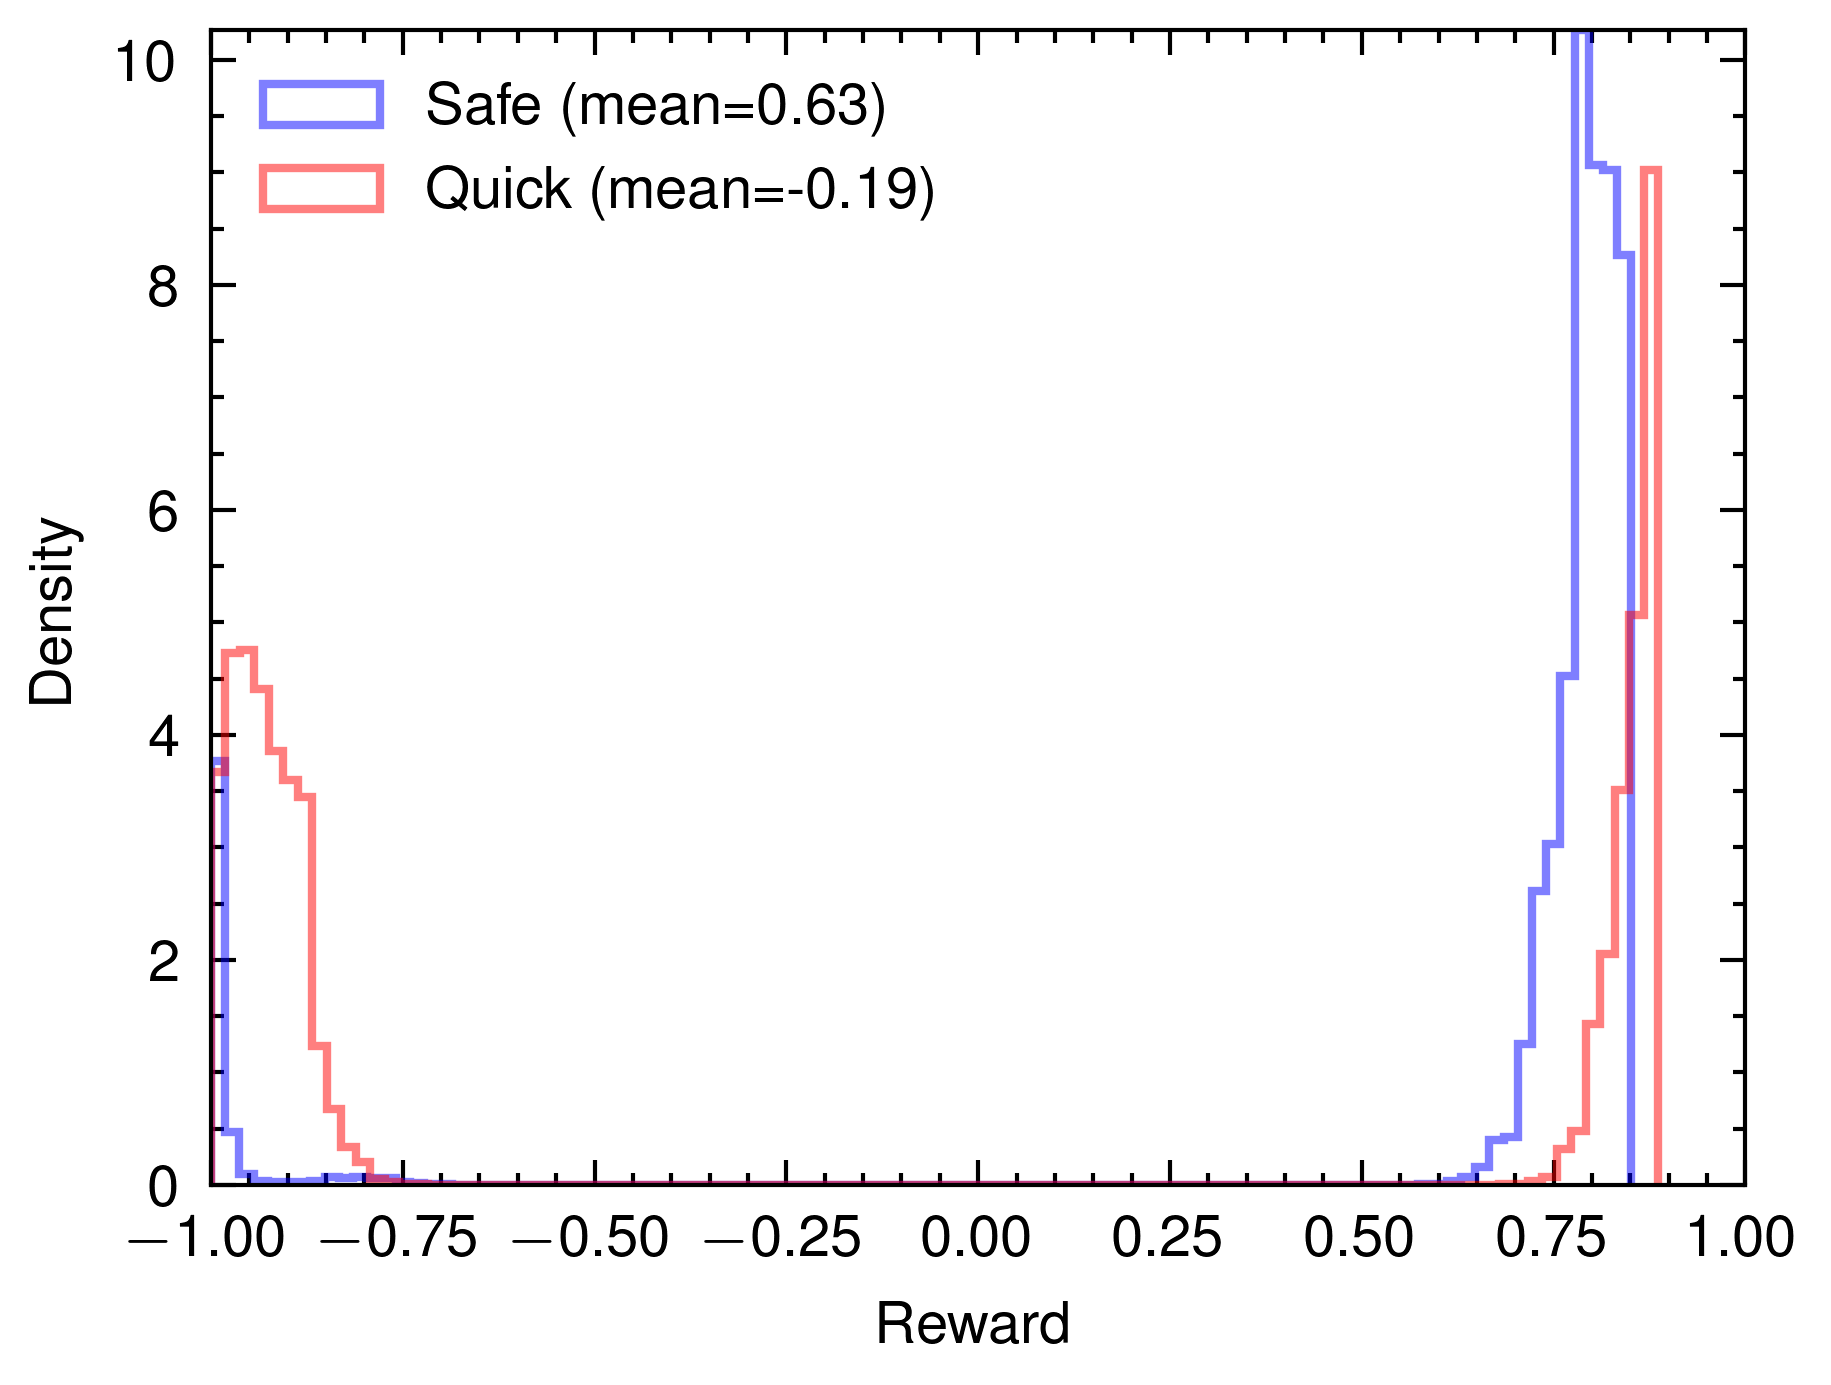
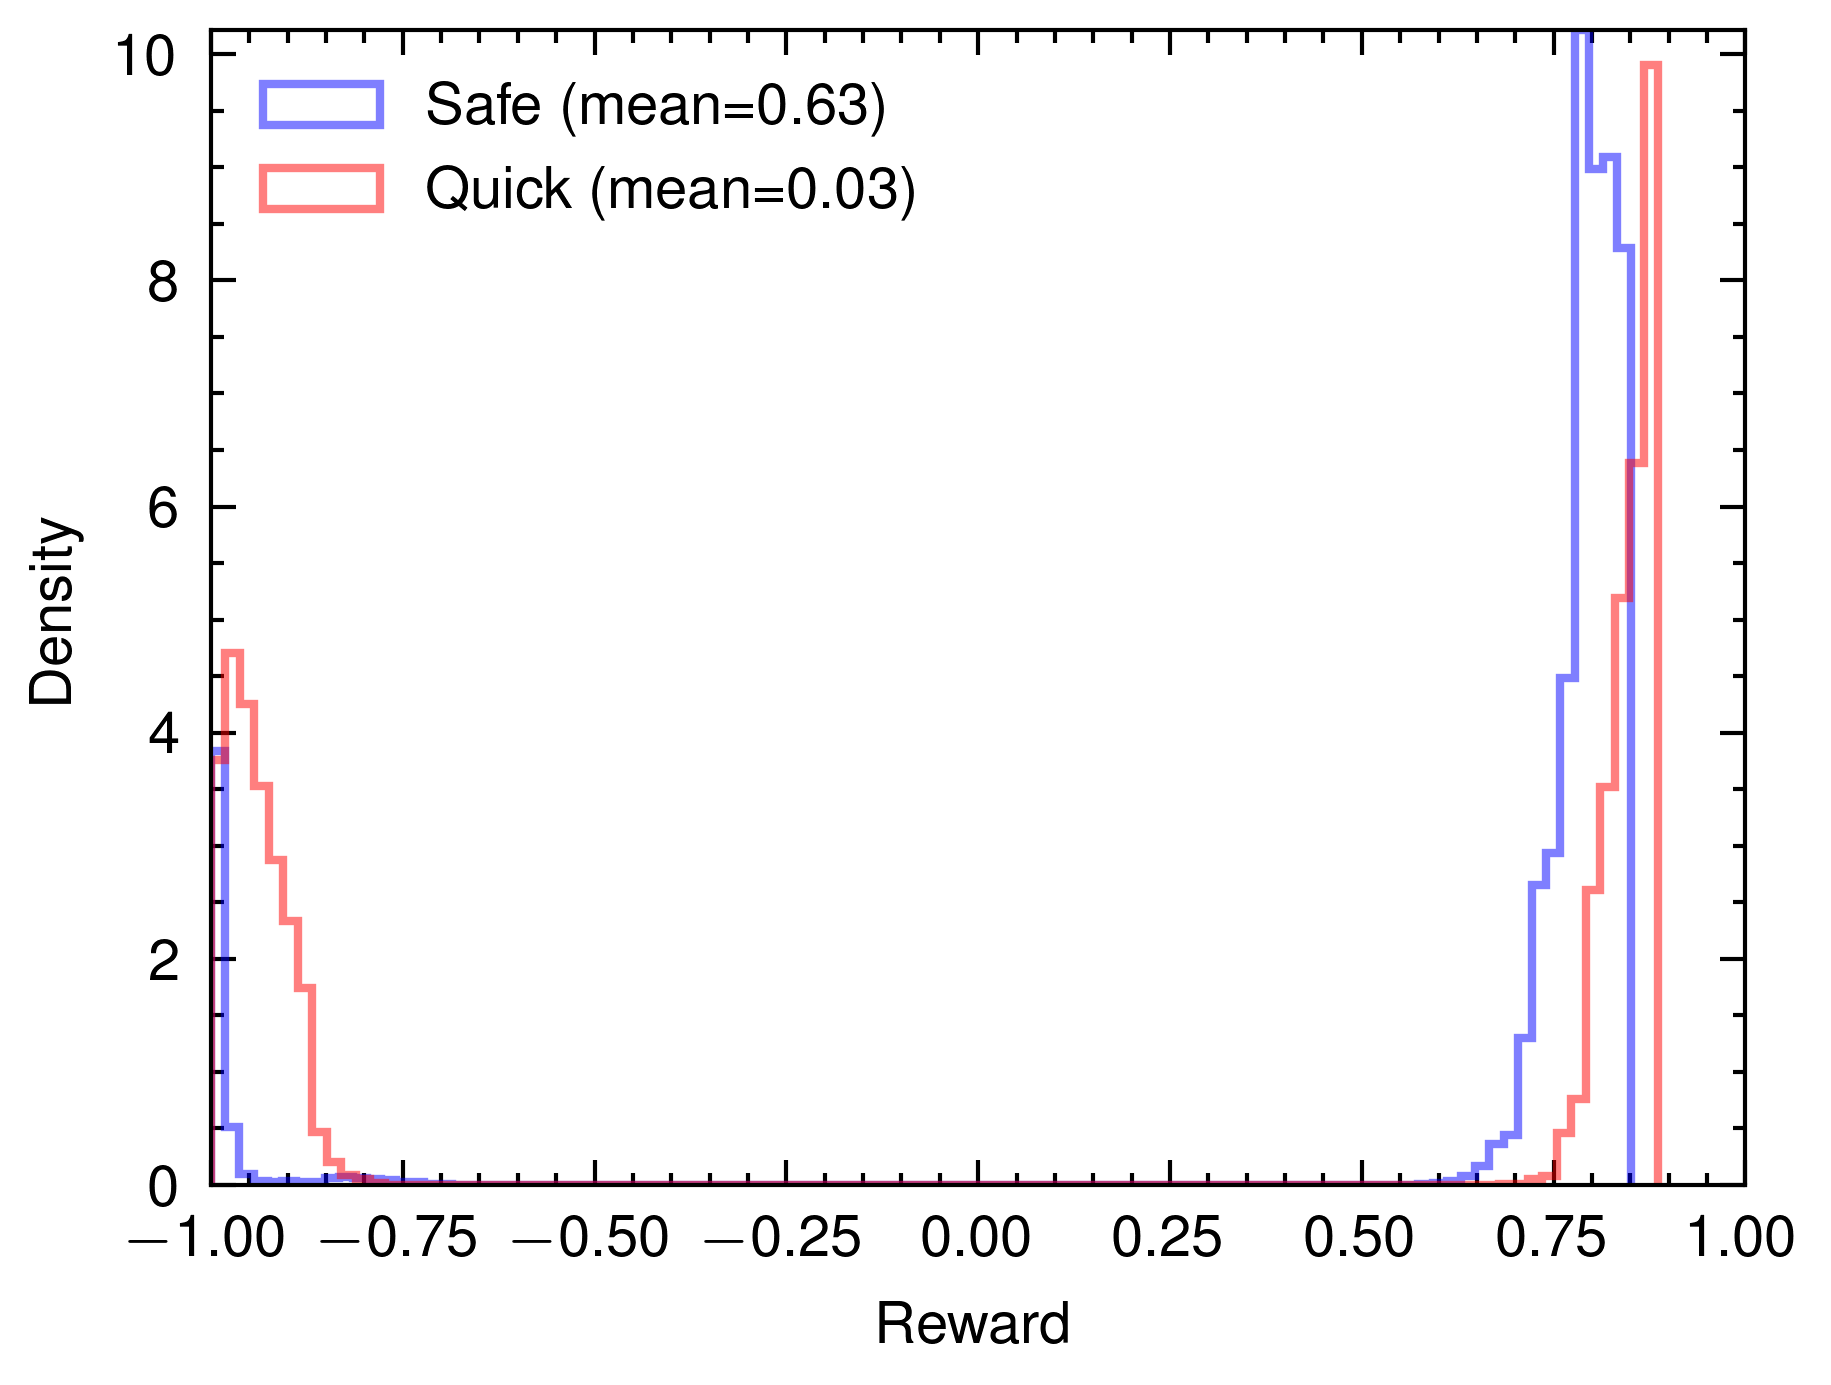
Update Cliffs of Moher

diff --git a/02_distribution/cliffs_of_moher/src/main.rs b/02_distribution/cliffs_of_moher/src/main.rs
@@ -167,9 +167,8 @@ impl RandomPolicy for QuickPolicy {
         } else {
             match (x, y) {
                 (0, 0)                      => Action::Up,
-                (x, 1) if x < 11            => Action::Right,
+                (x, _) if x < 11            => Action::Right,
                 (11, y) if y > 0            => Action::Down,
-                (x, y) if x < 11 && y > 1   => Action::Down,
                 _ => unreachable!(),
             }
         }
